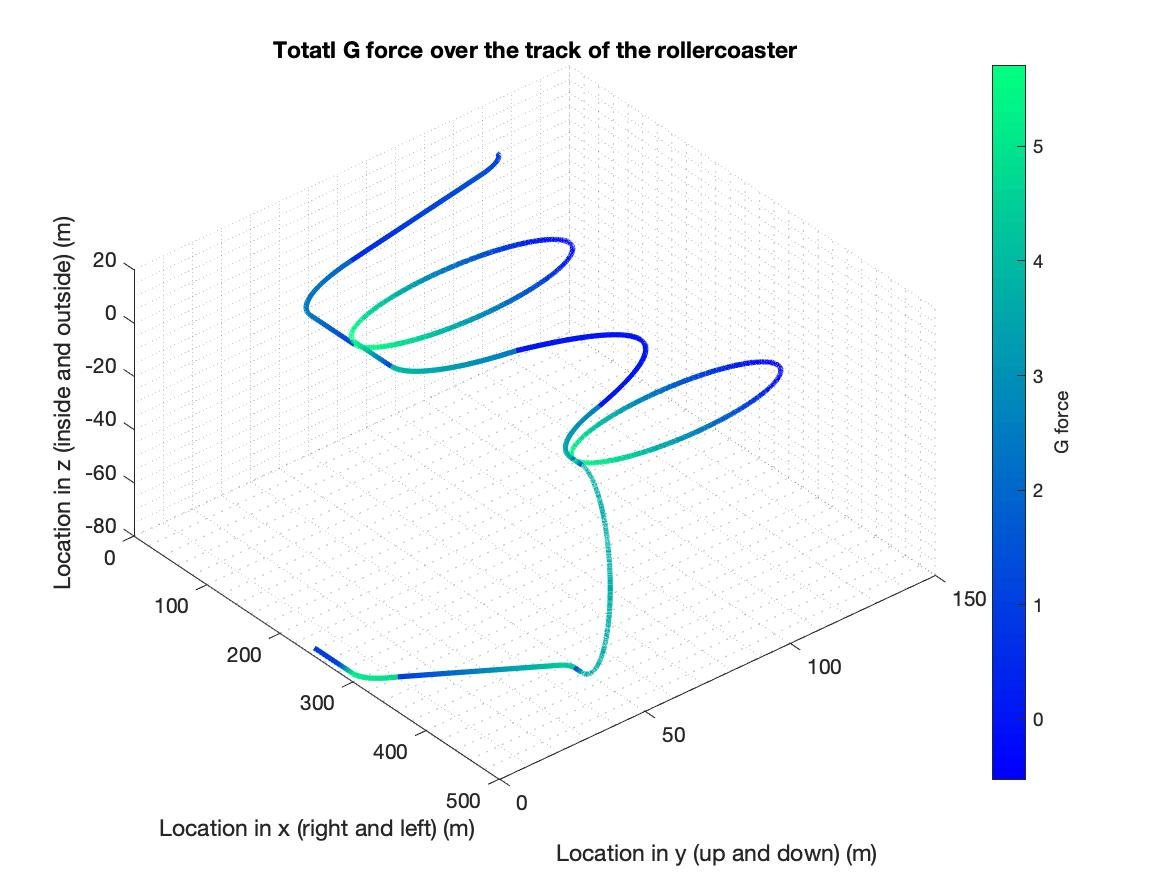
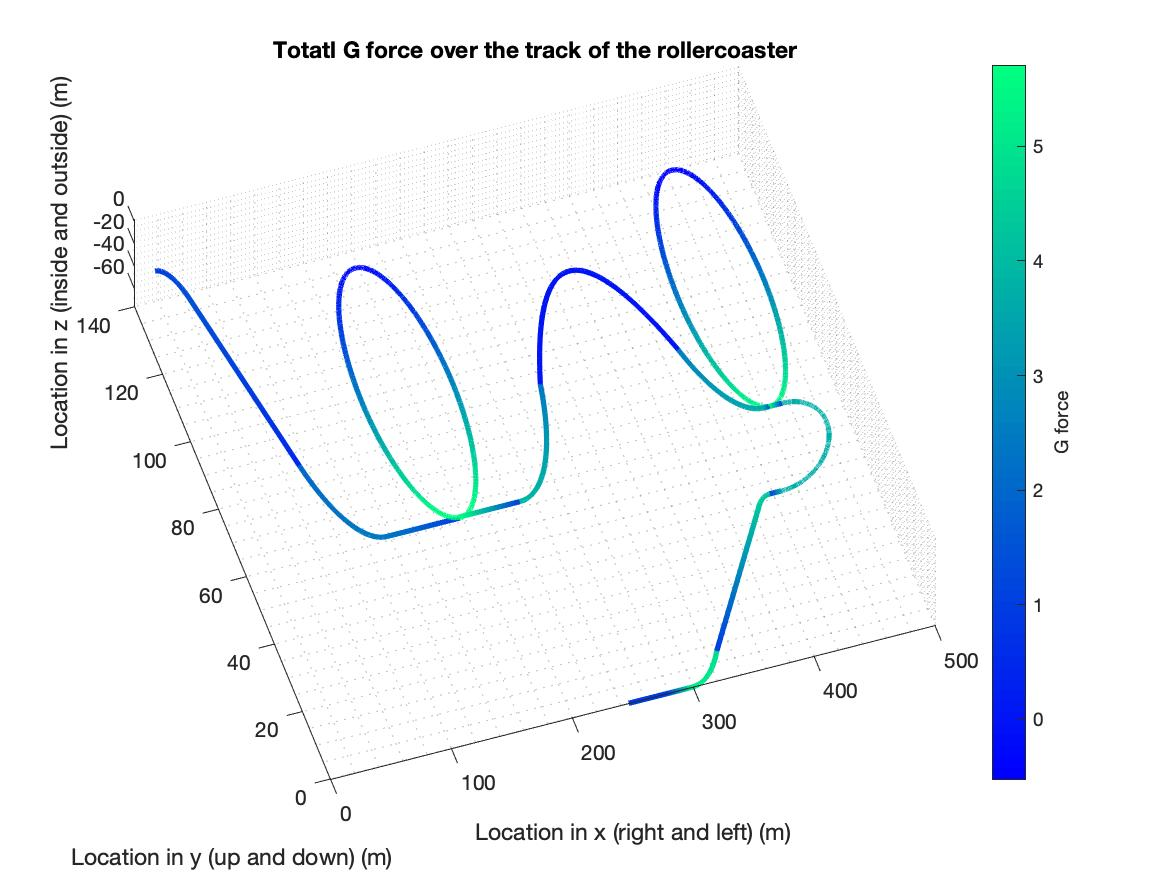
Adjusted orientation of graphs

diff --git a/RollerCoaster.m b/RollerCoaster.m
@@ -397,7 +397,7 @@ fprintf(' meters. \n ' );
  xlabel('Location in x (right and left) (m)');
  ylabel('Location in y (up and down) (m)');
  zlabel('Location in z (inside and outside) (m)');
-view([50 50]) 
+view([-18 80]) 
 saveas(gcf,'Gforce.jpg')
 
 % -__- !!
@@ -413,7 +413,7 @@ saveas(gcf,'Gforce.jpg')
  xlabel('Location in x (right and left) (m)');
  ylabel('Location in y (up and down) (m)');
  zlabel('Location in z (inside and outside) (m)');
- view([50 50])
+ view([-18 80])
  saveas(gcf,'Velocity.jpg')
 
 
